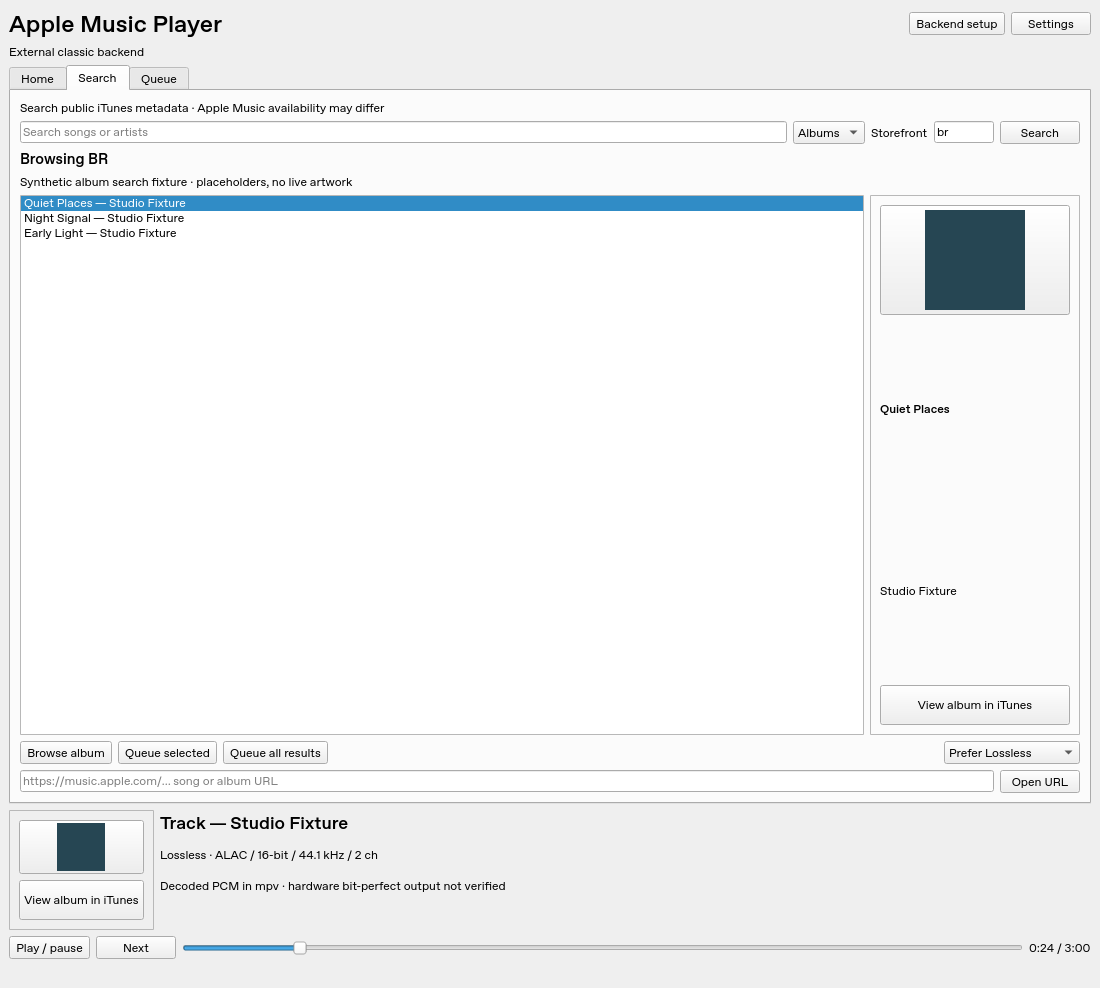
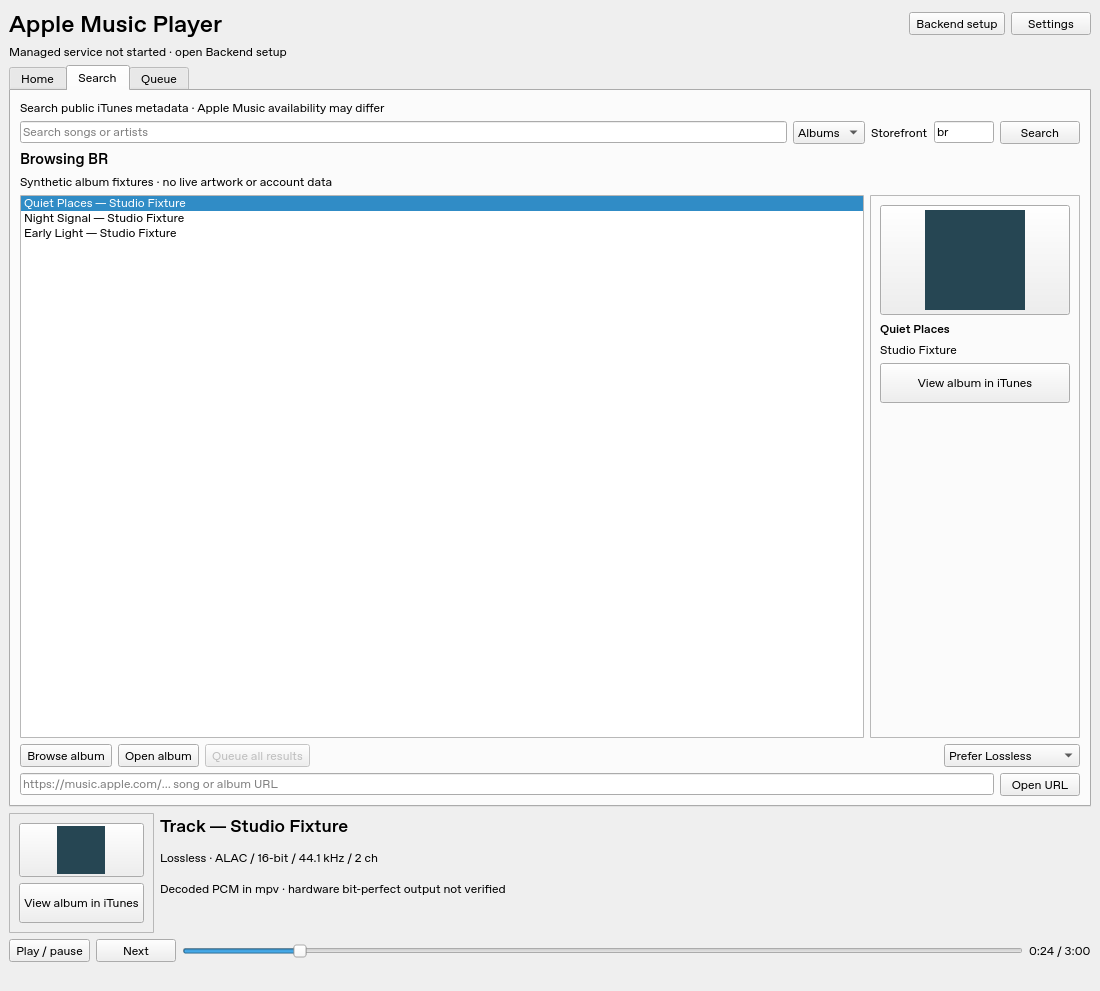
Refresh native UI evidence and keep playback polling during release updates

diff --git a/src/apple_music_player/app.py b/src/apple_music_player/app.py
@@ -664,35 +664,34 @@ class Window(QMainWindow):
                     if self.pending_result_kind == "releases":
                         self.receive_releases(result)
                         result = None
-                    if result is None:
-                        return
-                    self.results = result
-                    self.result_list.clear()
-                    self.result_list.addItems([track.title for track in self.results])
-                    for index in range(self.result_list.count()):
-                        self.result_list.item(index).setIcon(placeholder())
-                    if self.results:
-                        self.result_list.setCurrentRow(0)
-                    albums = self.pending_result_kind == "albums"
-                    self.selected_button.setText("Open album" if albums else "Queue selected")
-                    self.selected_button.setEnabled(bool(self.results))
-                    self.all_button.setText(
-                        "Queue album" if self.pending_album_title else "Queue all results"
-                    )
-                    self.all_button.setEnabled(bool(self.results) and not albums)
-                    label = "albums" if albums else "songs"
-                    if len(self.results) == 1:
-                        label = label[:-1]
-                    action = "open album" if albums else "queue"
-                    context = self.pending_album_title
-                    self.catalog_status.setText(
-                        f"{context + ' · ' if context else ''}{len(self.results)} {label} · "
-                        + (
-                            f"double-click to {action}"
-                            if self.results
-                            else "try another query/storefront or paste an Apple Music URL"
+                    if result is not None:
+                        self.results = result
+                        self.result_list.clear()
+                        self.result_list.addItems([track.title for track in self.results])
+                        for index in range(self.result_list.count()):
+                            self.result_list.item(index).setIcon(placeholder())
+                        if self.results:
+                            self.result_list.setCurrentRow(0)
+                        albums = self.pending_result_kind == "albums"
+                        self.selected_button.setText("Open album" if albums else "Queue selected")
+                        self.selected_button.setEnabled(bool(self.results))
+                        self.all_button.setText(
+                            "Queue album" if self.pending_album_title else "Queue all results"
                         )
-                    )
+                        self.all_button.setEnabled(bool(self.results) and not albums)
+                        label = "albums" if albums else "songs"
+                        if len(self.results) == 1:
+                            label = label[:-1]
+                        action = "open album" if albums else "queue"
+                        context = self.pending_album_title
+                        self.catalog_status.setText(
+                            f"{context + ' · ' if context else ''}{len(self.results)} {label} · "
+                            + (
+                                f"double-click to {action}"
+                                if self.results
+                                else "try another query/storefront or paste an Apple Music URL"
+                            )
+                        )
                 except CatalogDeferred as exc:
                     if exc.rate_limited:
                         self.catalog_retries += 1

diff --git a/src/apple_music_player/browsing.py b/src/apple_music_player/browsing.py
@@ -46,6 +46,7 @@ class AlbumCard(QFrame):
         self.setFrameShape(QFrame.StyledPanel)
         self.setFixedWidth(210 if not compact else 190)
         layout = QVBoxLayout(self)
+        layout.setAlignment(Qt.AlignTop)
         self.cover = QPushButton()
         self.cover.setIcon(placeholder())
         self.cover.setIconSize(QSize(100, 100))

diff --git a/src/apple_music_player/catalog.py b/src/apple_music_player/catalog.py
@@ -1,4 +1,4 @@
-"""Documented public iTunes metadata. No previews, artwork or account credentials."""
+"""Documented public iTunes metadata. No audio previews or account credentials."""
 
 import json
 import re
